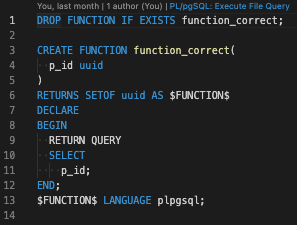
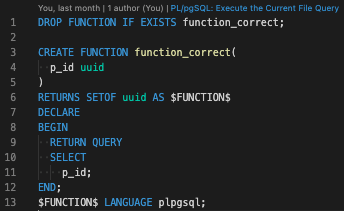
Rename: command title.

diff --git a/server/src/commands/executeFileQuery.ts b/server/src/commands/executeFileQuery.ts
@@ -5,7 +5,7 @@ import { PostgresPool } from "@/postgres/pool"
 
 
 export const FILE_QUERY_COMMAND_INFO = {
-  title: "PL/pgSQL: Execute File Query",
+  title: "PL/pgSQL: Execute the Current File Query",
   command: "plpgsql-lsp.executeFileQuery",
   execute: executeFileQuery,
 } as const

diff --git a/README.md b/README.md
@@ -54,8 +54,8 @@ Or, if you want to disable only the validation feature, try this
 /* plpgsql-language-server:disable validation */
 ```
 
-## Execute File Query
-You can execute a file query from VSCode Command.
+## Execute the Current File Query
+You can execute the current file query from VSCode Command.
 
 ![preview](images/execute_file_query_command.png)
 
